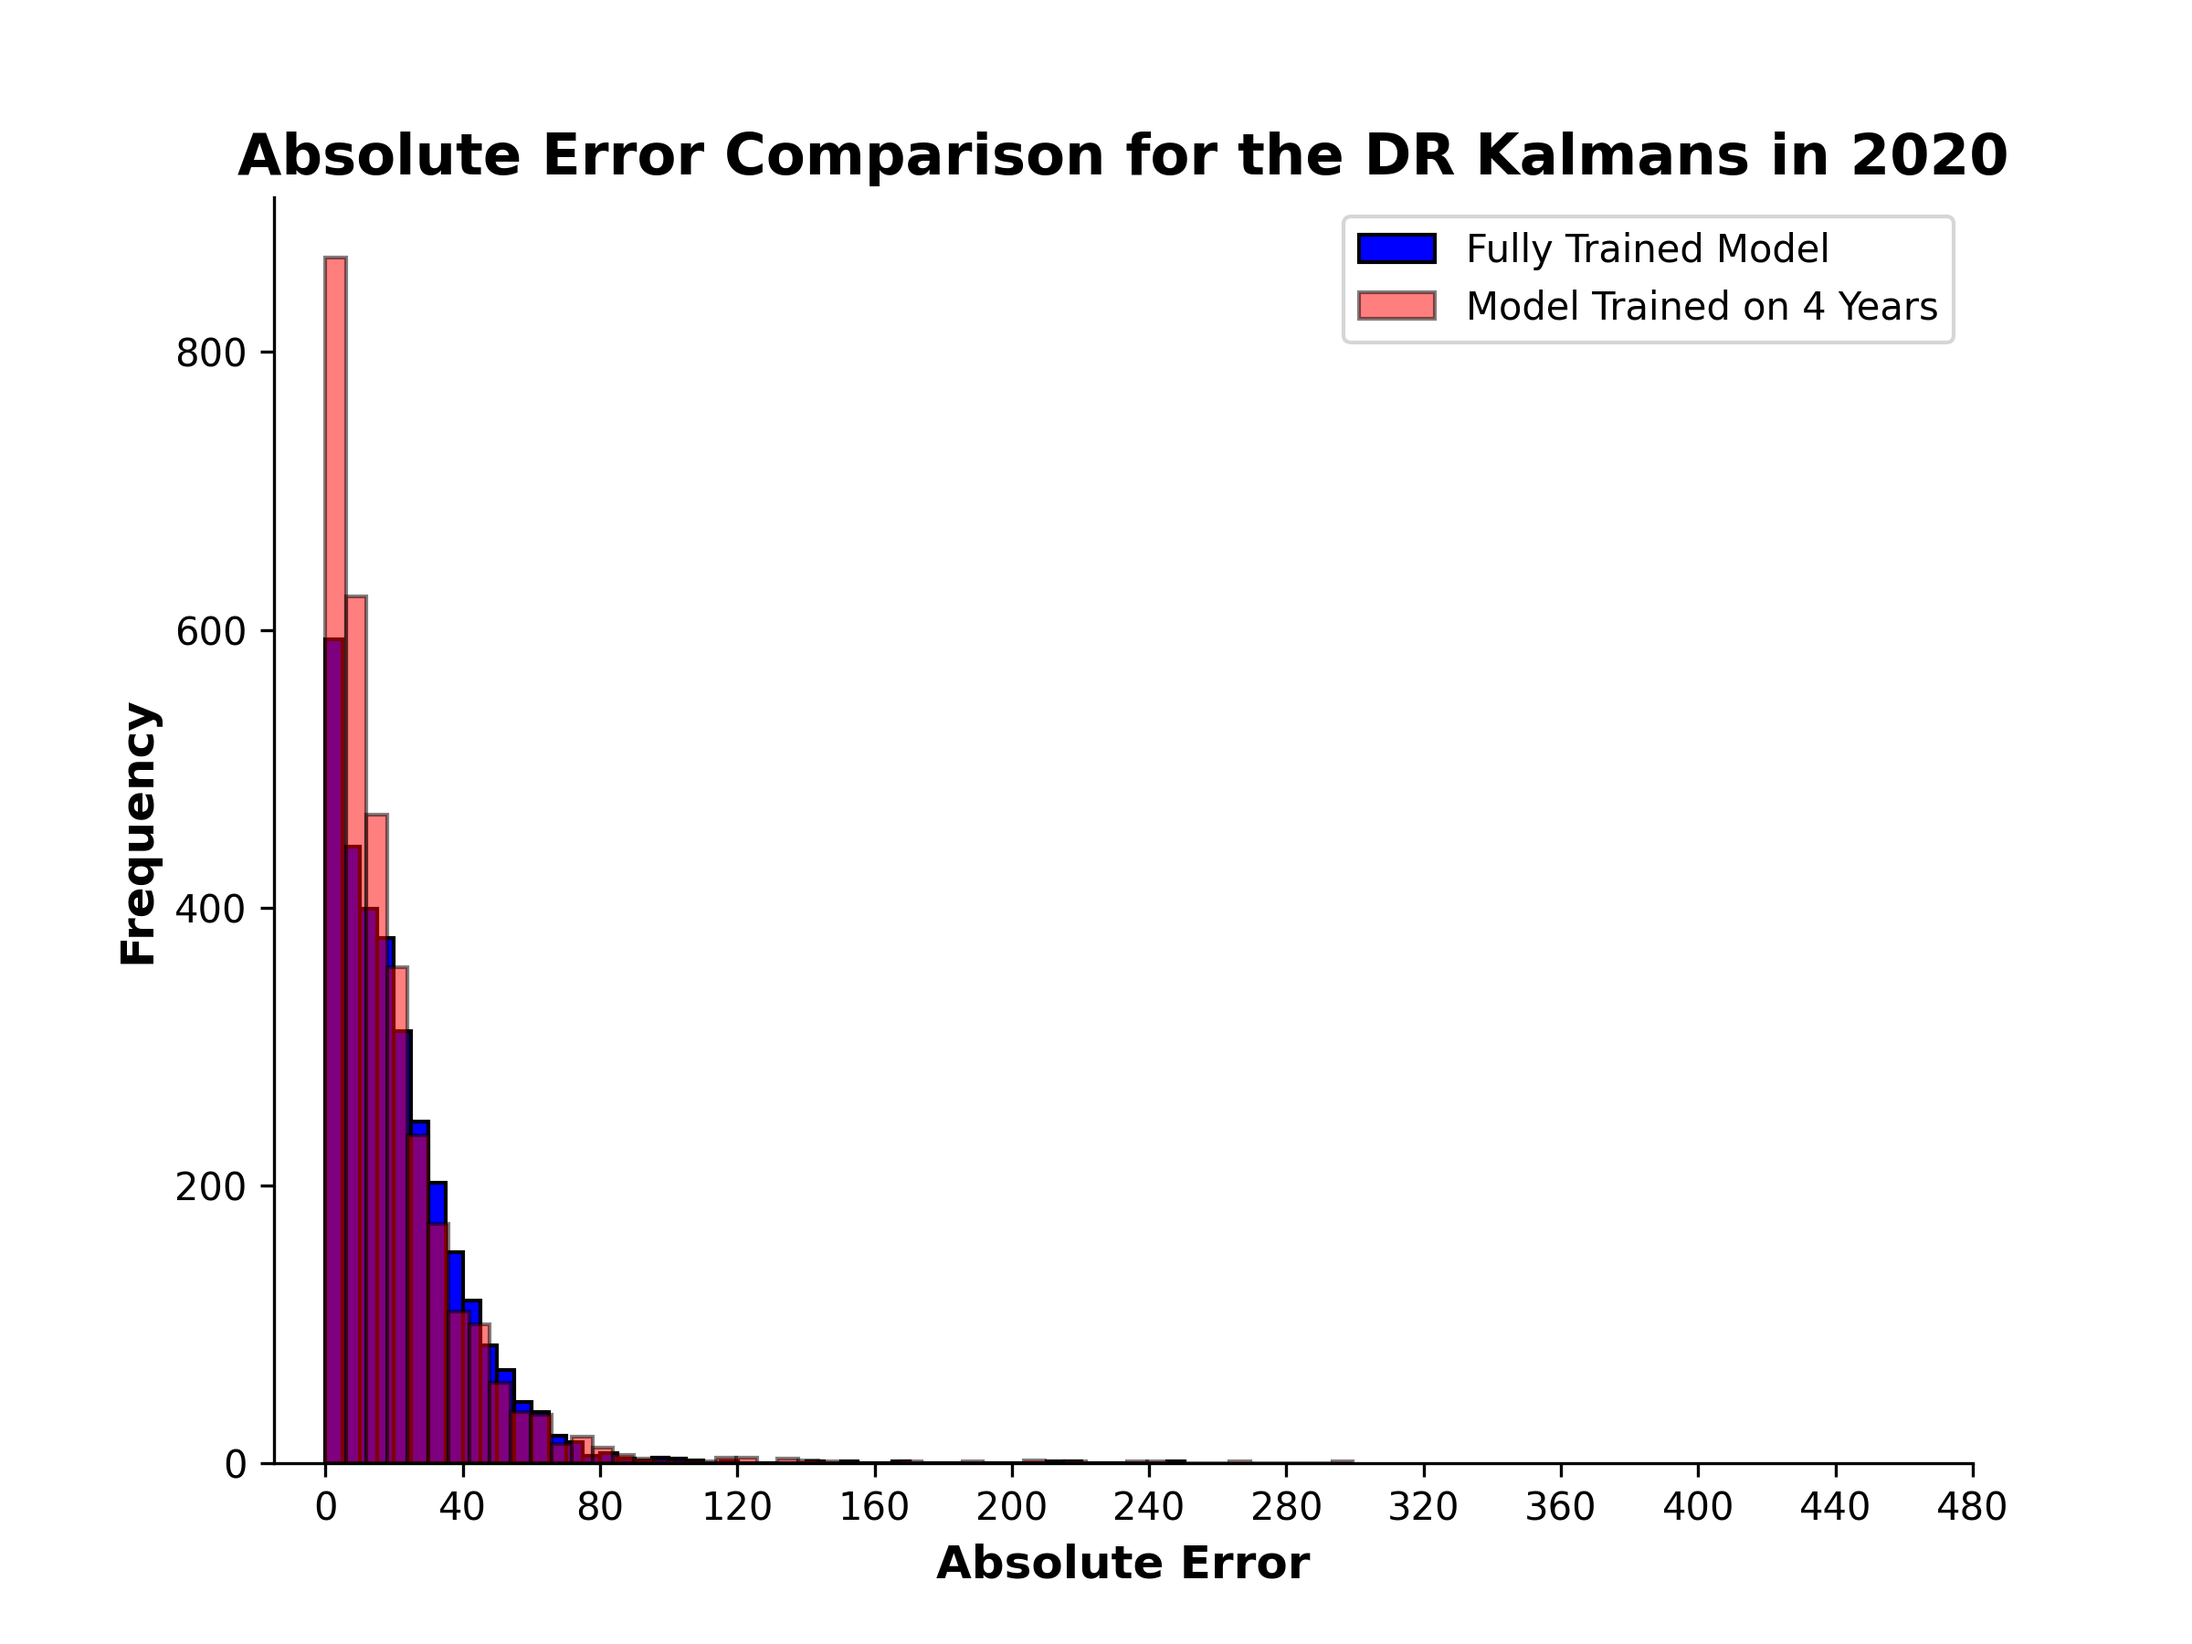
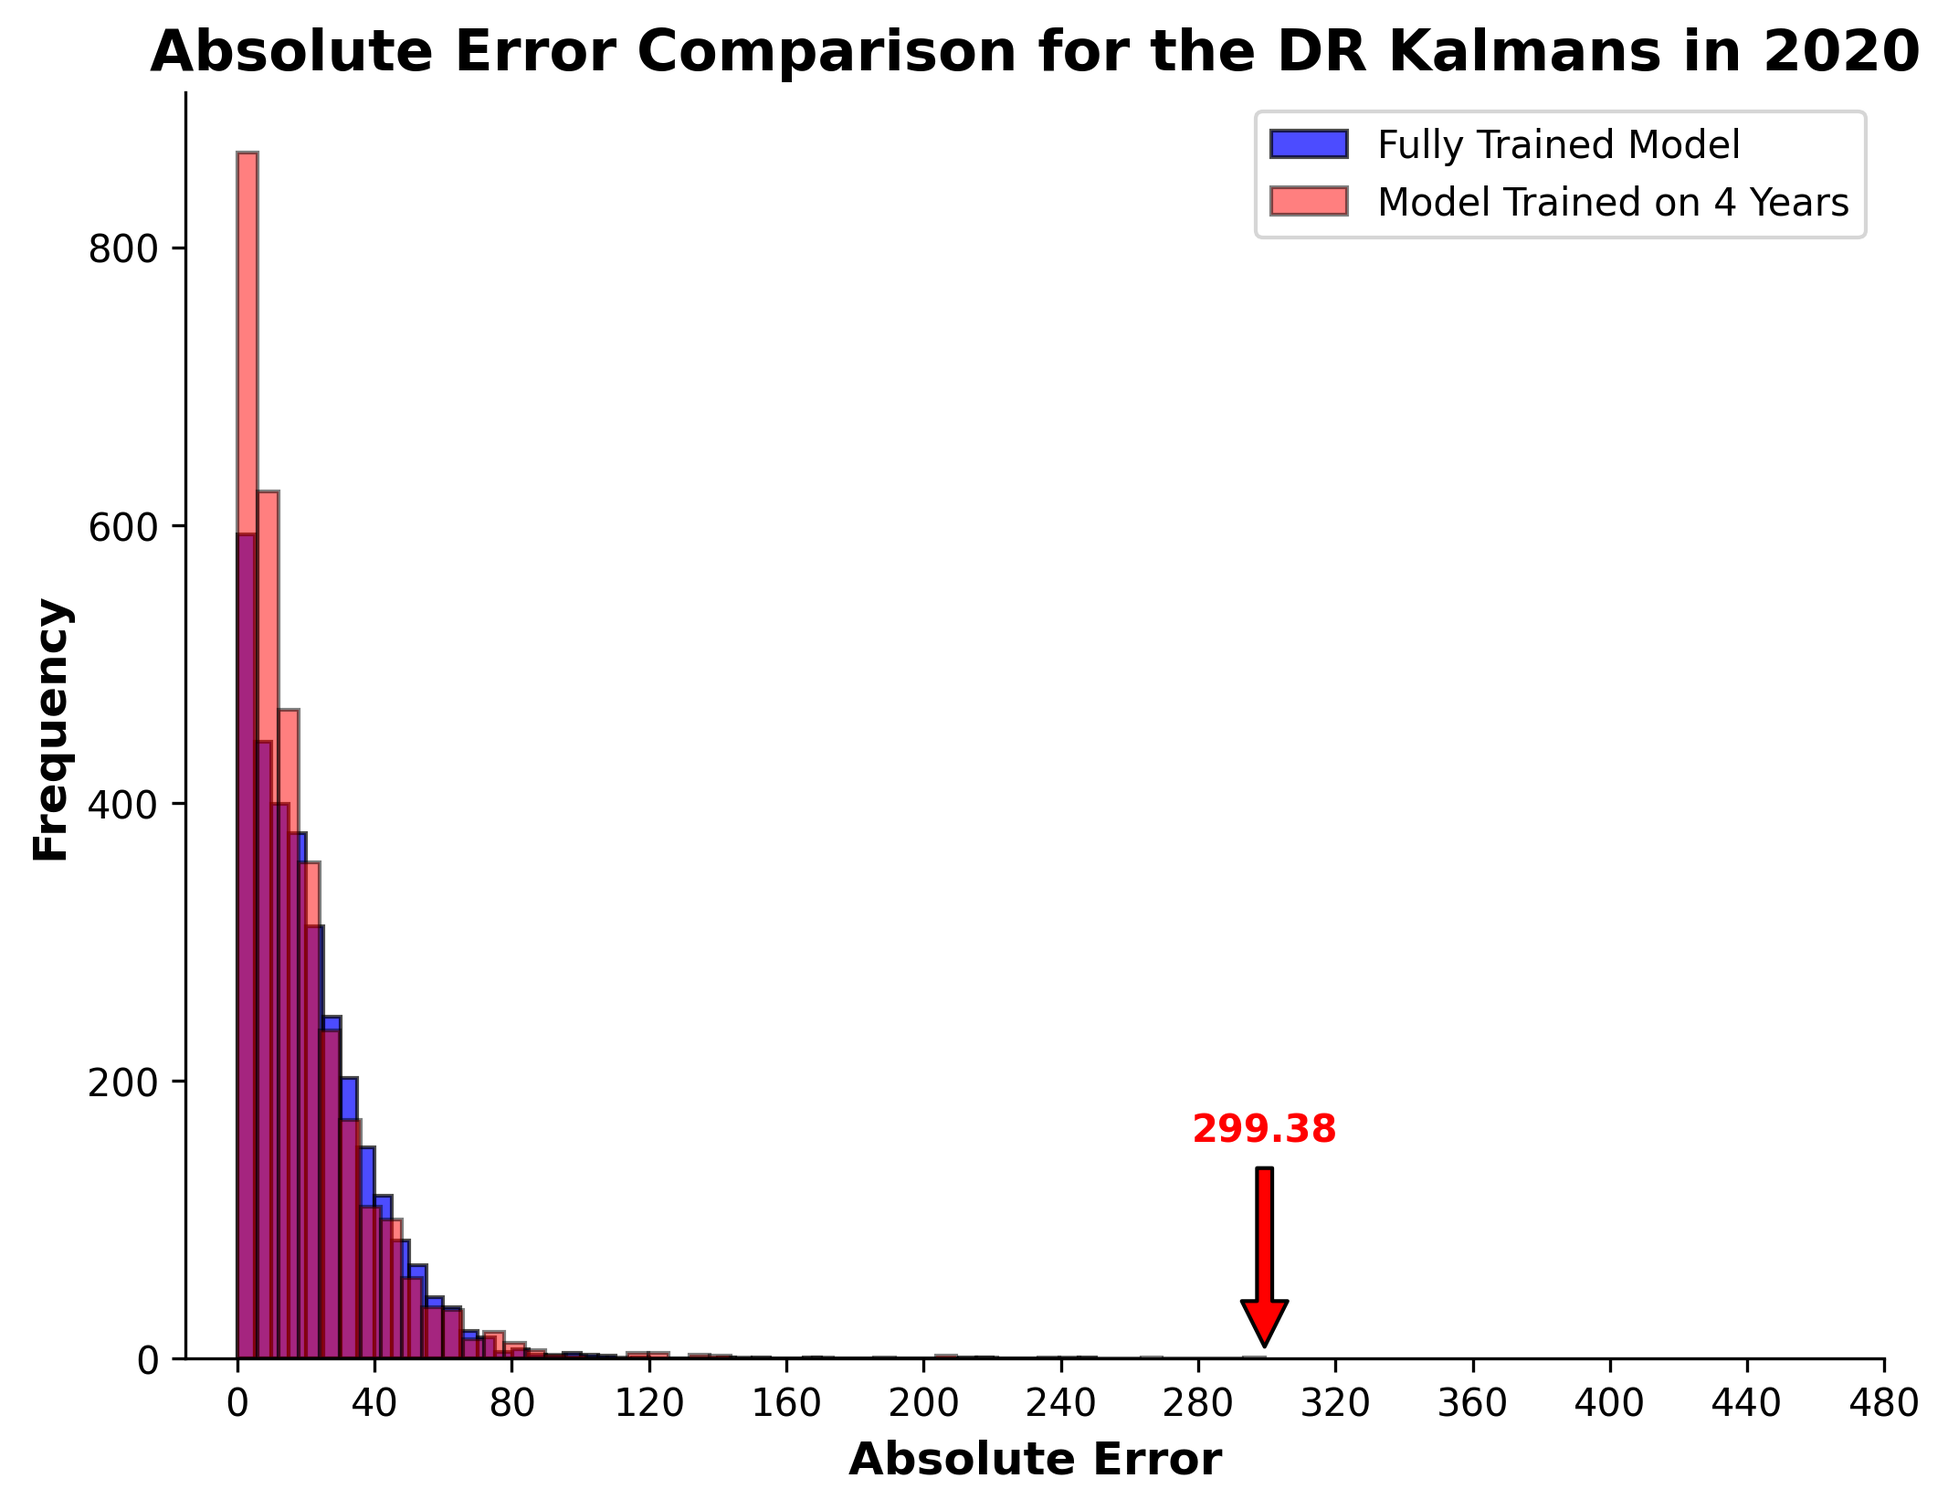
Updating ToLD Error Histograms

Changed region(s): [[0.0, 0.0, 0.9902, 0.9873]]

diff --git a/Kalman Filter Trained on Less Data/Error Histograms ToLD.py b/Kalman Filter Trained on Less Data/Error Histograms ToLD.py
@@ -47,10 +47,13 @@ def construct_histogram(err_df, output_histo_path, dataset, training_years, year
     plt.figure(figsize=(8, 6))
     full_errors = err_df[f'{year} Fully Trained Absolute Errors']
     errors = err_df[f'{year} Kals Absolute Errors']
+    max_error = errors.max().round(2)
 
-    plt.hist(full_errors, bins=50, alpha=1, label='Fully Trained Model', edgecolor='black', color='blue')
-    plt.hist(errors, bins=50, alpha=0.5, label=f'Model Trained on {training_years} Years', edgecolor='black', color='red')
+    # Plot both histograms
+    plt.hist(full_errors, bins=50, alpha=0.7, label='Fully Trained Model', edgecolor='black', color='blue')
+    n, bins, patches = plt.hist(errors, bins=50, alpha=0.5, label=f'Model Trained on {training_years} Years', edgecolor='black', color='red')
 
+    # Set the tick positions and labels
     if dataset == 'OD':
         size = 15
         if year == 2014:
@@ -73,18 +76,34 @@ def construct_histogram(err_df, output_histo_path, dataset, training_years, year
     tick_labels = [str(int(x)) for x in tick_positions]
     plt.xticks(tick_positions, tick_labels) 
 
-    title = f'Absolute Error Comparison for the {dataset} Kalmans in {year}'
-    plt.title(title, size=size, weight='bold')
     plt.xlabel('Absolute Error', fontsize=12, weight='bold')
     plt.ylabel('Frequency', fontsize=12, weight='bold')
     plt.legend(loc='upper right')
+    
+    # Annotate the maximum error on the histogram for 'errors' only
+    max_error_bin_index = np.digitize([max_error], bins) - 1
+    # Make sure the index is within the range of n
+    max_error_bin_index = min(max_error_bin_index[0], len(n) - 1)
+    max_error_bin_height = n[max_error_bin_index]
+    max_error_bin_value = bins[max_error_bin_index]
+        
+    plt.annotate(f'{max_error}', 
+                 xy=(max_error, max_error_bin_height), 
+                 xytext=(max_error, 150),  # Adjust the multiplier for text positioning
+                 ha='center', 
+                 va='bottom', 
+                 arrowprops=dict(facecolor='red', shrink=0.05),
+                 fontsize=10, weight='bold', color='red')
+
+    title = f'Absolute Error Comparison for the {dataset} Kalmans in {year}'
+    plt.title(title, size=size, weight='bold')
 
     ax = plt.gca()
     ax.spines['top'].set_visible(False)
     ax.spines['right'].set_visible(False)
 
     # Display and save the histogram
-    #plt.savefig(output_histo_path, bbox_inches=None, pad_inches=0, dpi=300)
+    plt.savefig(output_histo_path, bbox_inches='tight', pad_inches=0.1, dpi=300)
     #plt.show()
 
 def main():
